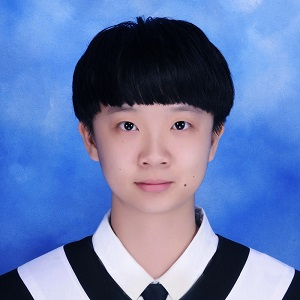
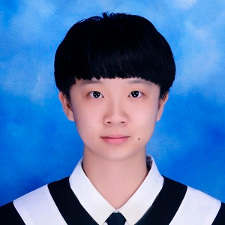
set head shot to 225*225

diff --git a/docs/index.html b/docs/index.html
@@ -480,7 +480,7 @@
         <div class="col-sm-4 col">
           <div class="team-member">
             
-            <img src="https://ccumvllab.github.io/site/img/team/Jheng-Jhang.jpg" class="img-responsive img-circle" alt="沈政璋 (Shen, Jheng-Jhang)">
+            <img src="https://ccumvllab.github.io/site/img/team/Jheng-Jhang.png" class="img-responsive img-circle" alt="沈政璋 (Shen, Jheng-Jhang)">
             <h3>沈政璋 (Shen, Jheng-Jhang)</h3>
 
             
@@ -522,7 +522,7 @@
   <div class="container">
     <div class="row">
       <div class="col-md-4">
-        <span class="copyright">&copy;2018 CCU MVL Lab. All right reserved.</span>
+        <span class="copyright">Copyright &copy; 2018 CCU MVL Lab. All right reserved. Generated with Hugo and Agency theme.</span>
       </div>
       <div class="col-md-4">
         <ul class="list-inline social-buttons">

diff --git a/docs/404.html b/docs/404.html
@@ -121,7 +121,7 @@
   <div class="container">
     <div class="row">
       <div class="col-md-4">
-        <span class="copyright">&copy;2018 CCU MVL Lab. All right reserved.</span>
+        <span class="copyright">Copyright &copy; 2018 CCU MVL Lab. All right reserved. Generated with Hugo and Agency theme.</span>
       </div>
       <div class="col-md-4">
         <ul class="list-inline social-buttons">
